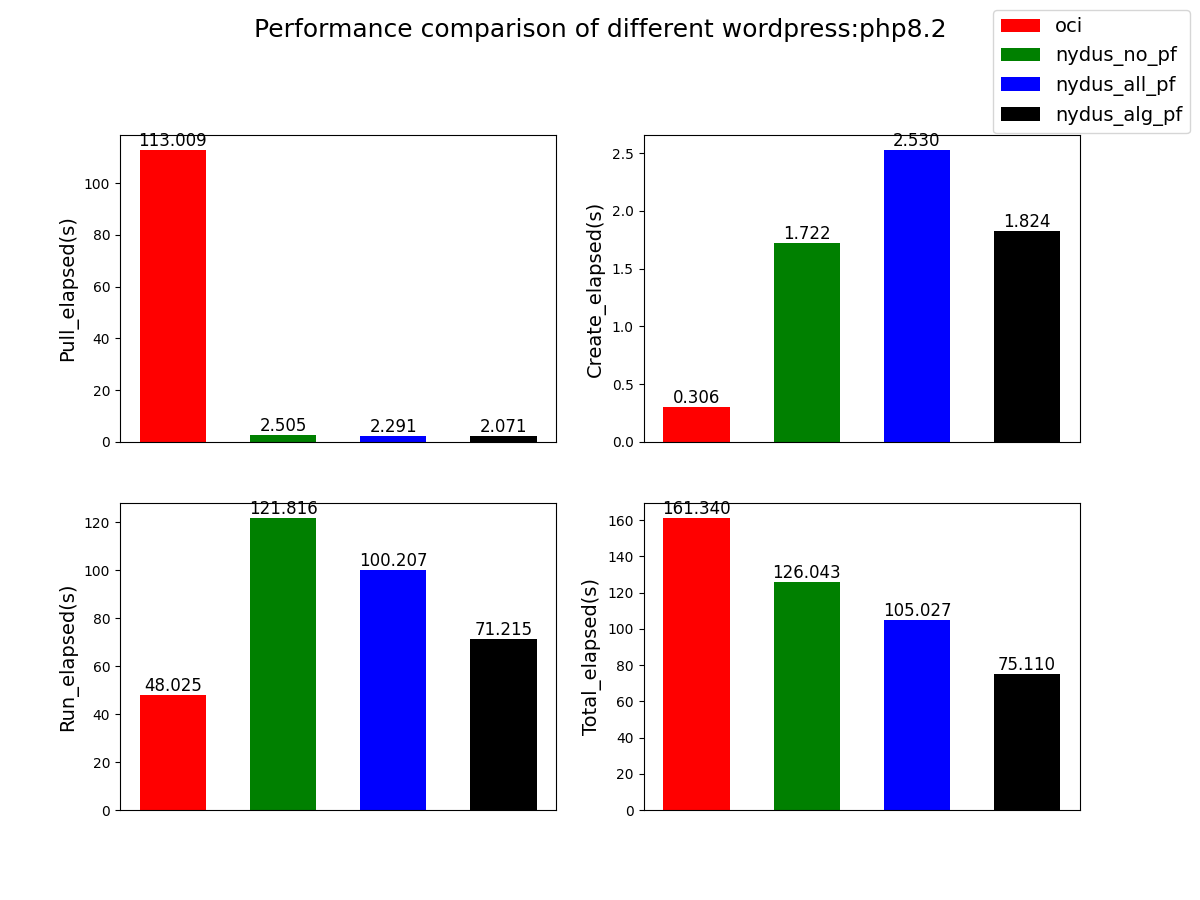
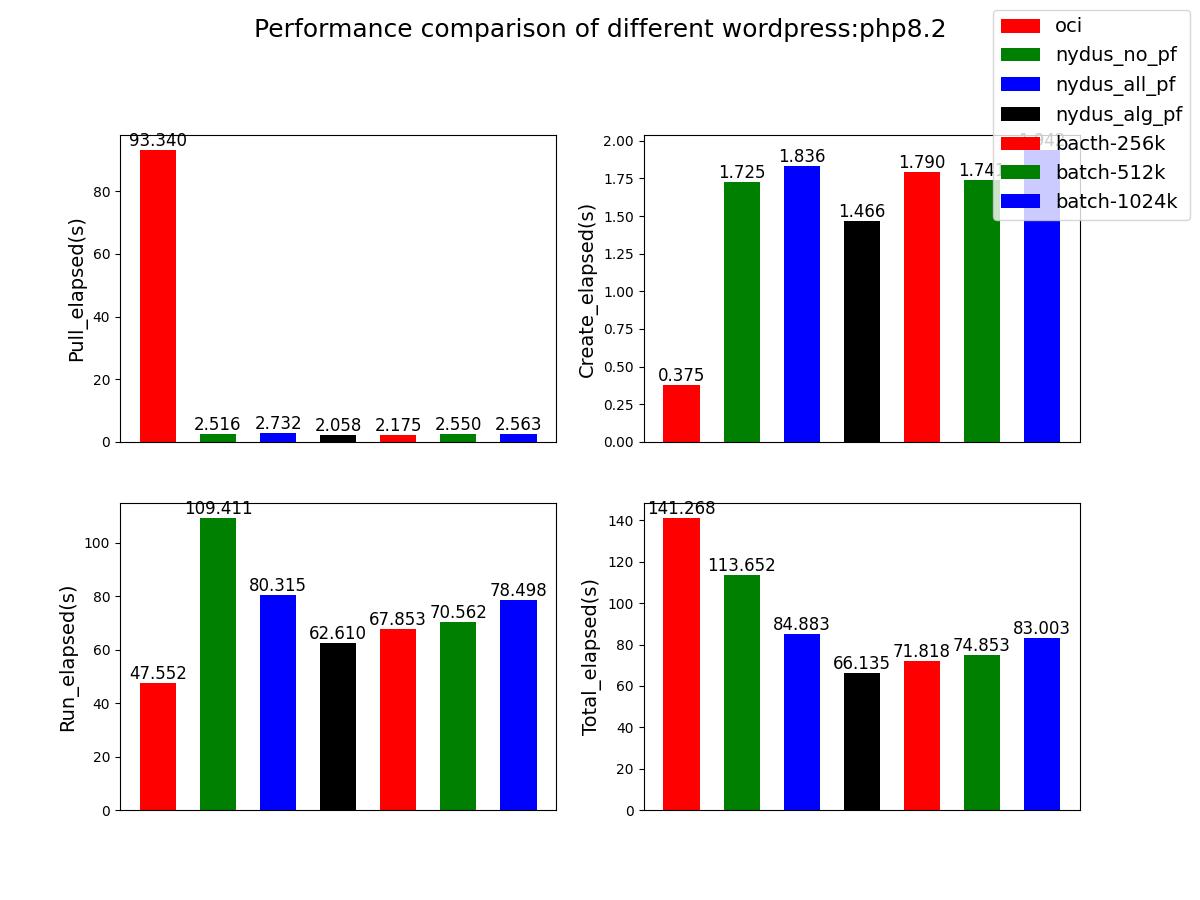
update

diff --git a/draw.py b/draw.py
@@ -10,7 +10,7 @@ def draw(filename_path, dest_path="bench.png"):
     data = pd.read_csv(filename_path)
     data.columns = ["timestamp", "registry", "repo", "pull_elapsed(s)", "create_elapsed(s)", "run_elapsed(s)", "total_elapsed(s)"]
     image = data["repo"][0]
-    if len(data) == 6:
+    if len(data) == 7:
         data["repo"] = ["oci", "nydus_no_pf", "nydus_all_pf", "nydus_alg_pf", "bacth-256k", "batch-512k", "batch-1024k"]
     else:
         data["repo"] = ["oci", "nydus_no_pf", "nydus_all_pf", "nydus_alg_pf"]

diff --git a/main.py b/main.py
@@ -81,6 +81,7 @@ def start_bench(cfg: dict, image: str):
     # oci
     bench.bench_image(cfg["local_registry"], cfg["insecure_local_registry"], image, f)
     util.switch_config_prefetch_unable()
+    util.reload_nydus()
     # no prefetch
     bench.bench_image(cfg["local_registry"], cfg["insecure_local_registry"], util.image_nydus(image), f, "nydus")
     util.switch_config_prefetch_enable()
